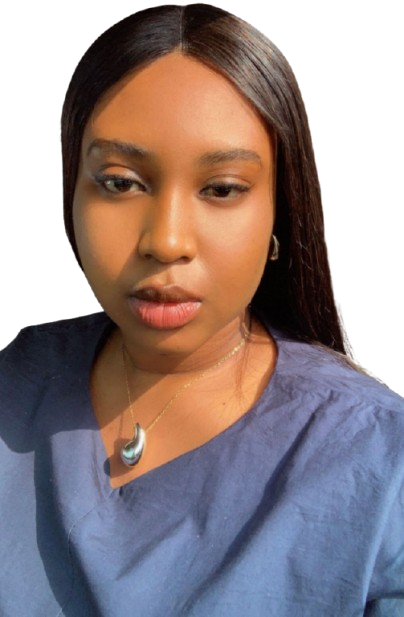
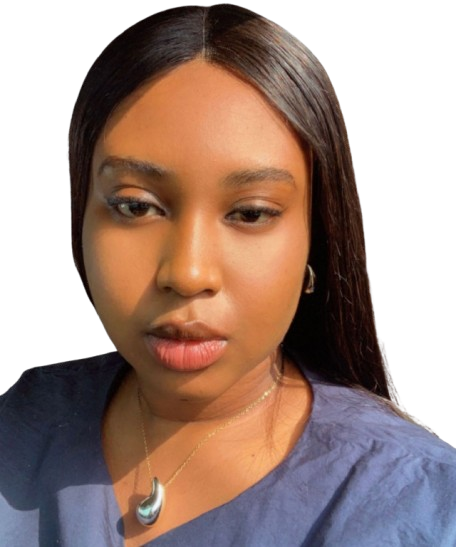
hr fix

diff --git a/src/app/team/page.js b/src/app/team/page.js
@@ -613,7 +613,7 @@ const Page = () => {
                   <Image
                     src={HR}
                     alt="avatar"
-                    className="w-full h-full object-contain"
+                    className="w-full h-full object-cover"
                   />
                 </div>
                 <div className="bg-white  w-[250px] p-4 shadow-md rounded-lg">

diff --git a/src/app/team/hr-administrator/page.js b/src/app/team/hr-administrator/page.js
@@ -43,7 +43,7 @@ const page = () => {
                   <Image
                     src={HR}
                     alt="md"
-                    className="w-full h-full object-contain"
+                    className="w-full h-full object-cover"
                   />
                 </div>
                 <div className="bg-white w-[250px] p-4 shadow-md rounded-lg">
